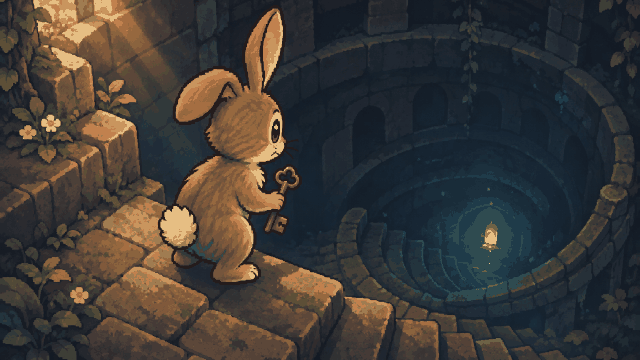
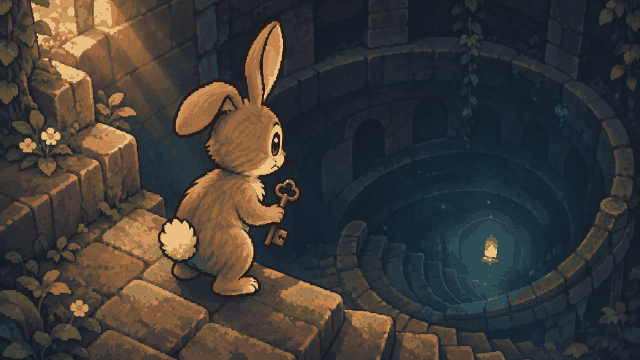
Show the whole rabbit in the opening picture
The art pipeline trimmed every 3:2 backdrop to 16:9 by cutting equally from
top and bottom, which took the ears off the rabbit on the hill in the first
opening picture (at every window size, since it was baked into the file).
Backdrops can now say where to trim; the first picture gets a little more
painted sky above the rabbit and is trimmed from the top, and the third
picture keeps more room above Bramble's ear.

Fixes #1

diff --git a/tools/pixelize.py b/tools/pixelize.py
@@ -106,13 +106,18 @@ def do_anim(folder, manifest):
         sheet.save(os.path.join(d, name + '.png'))
         manifest.setdefault('anim-' + kind, {})[name] = [fw, fh, len(outs)]
 
+# Where to trim a backdrop that is taller than 16:9: 0 = keep the top, 1 = keep the bottom,
+# 0.5 (default) = trim equally. Set one when the centre trim cuts into something that matters.
+# bg-intro-1's source was extended upward (sky) so the rabbit on the hill has headroom.
+BG_FOCUS_Y = {'bg-intro-1': 0.0, 'bg-intro-3': 0.3}
+
 def do_bg(path, manifest):
     name = os.path.splitext(os.path.basename(path))[0]
     im = Image.open(path).convert('RGB')
     W, H = BG_SIZE
     k = max(W / im.width, H / im.height)
     im = im.resize((round(im.width * k), round(im.height * k)), Image.BOX)
-    x = (im.width - W) // 2; y = (im.height - H) // 2
+    x = (im.width - W) // 2; y = round((im.height - H) * BG_FOCUS_Y.get(name, 0.5))
     im = im.crop((x, y, x + W, y + H)).quantize(colors=64, method=Image.MEDIANCUT, dither=Image.NONE).convert('RGB')
     d = os.path.join(OUT, 'bg'); os.makedirs(d, exist_ok=True)
     im.save(os.path.join(d, name + '.png'))

diff --git a/design/ASSETS.md b/design/ASSETS.md
@@ -61,3 +61,11 @@ Epilogue (2026-11-12, design/changes/epilogue.md; its own $20 budget): imagegen2
 | prop sheet "rebuild": prop-flint-doorway (2x2), prop-sprout-patch (2x2 ground), prop-feast-spread (2x2 ground), prop-dandelion-clock (1x1) | art-src/sheets/prop-rebuild.png (+ -split.png: the patch and the cloth touched, so a 120 px gap was inserted before cut_sheet) -> game/assets/sprites/props/ | imagegen2 low 1536x1024, transparent (native alpha) | four props in a row: flint-framed burrow doorway in a grassy bank with a lantern; a staked patch of clover shoots and dandelions; a picnic cloth of clover, carrots and cakes; dandelion seed clocks | 1 | $0.06 |
 
 Sizes added to tools/sizes.py (PROPS). Epilogue spend: $0.41 of its $20. Overall running total: $38.97 ($38.56 + $0.41).
+
+Issue #1 fix (2026-11-15, "Rabbit cut off on intro screen"; its own $20 budget): the 3:2 backdrop sources were trimmed to 16:9 equally top and bottom, which cut the hilltop rabbit's ears off bg-intro-1. tools/pixelize.py now takes a per-backdrop trim focus (BG_FOCUS_Y: bg-intro-1 top, bg-intro-3 0.3 for ear headroom; everything else centred as before). All 29 backdrop crops were checked; only these two came near anything that matters.
+
+| ID | File | Tool | Prompt (short) | Tries | Est. cost |
+|---|---|---|---|---|---|
+| bg-intro-1 sky extension | art-src/bg/bg-intro-1.png (original moved down 96 px; new sky strip from .gamegen/candidates/issue1/extend-1.png, blended in above the ears, deeper on the right; original kept as .gamegen/candidates/issue1/original-bg-intro-1.png) -> game/assets/bg/bg-intro-1.png | imagegen2 high 1536x1024, edit of the shifted canvas | repaint only the top placeholder strip as sky, clouds and meadow, ears complete with sky above, keep everything else | 1 | $0.35 |
+
+Issue #1 spend: $0.35 of its $20. Overall running total: $39.32 ($38.97 + $0.35).

diff --git a/design/STATUS.md b/design/STATUS.md
@@ -19,6 +19,7 @@
 13. `When done, /gamegen --feedback hidden, then /gamegen --publish --no-confirm.` (2026-11-13: after the controller change lands and its regression passes)
 14. `/gamegen --feedback on --publish --no-confirm` (run for the owner on 2026-11-13)
 15. `Let's add a notice to make clear it's not meant for pure mobile. Also consider if gamegen should include this sort of consideration when a game is aimed at desktop or vice-versa.`
+16. `/gamegen --change #1` (2026-11-15) — #1: Rabbit cut off on intro screen (https://github.com/zeveck/warren-peace/issues/1), filed by the person; plus: `What you're calling "Short wide windows" is a full 16x9 high resolution desktop montior, so pretty standard.` and `The image is clipped exactly the same if I run the game full screen.`
 
 ## Settings
 
@@ -45,6 +46,8 @@
 - Plugins: up to date
 
 ## Phases
+
+- [x] Change 9 (issue #1, rabbit cut off on intro screen): cause was the art pipeline trimming 3:2 sources to 16:9 equally top and bottom (baked into the file, so every window size showed it). pixelize.py BG_FOCUS_Y per backdrop; bg-intro-1 source extended upward with a generated sky strip ($0.35) and trimmed from the top; bg-intro-3 trimmed at 0.3 for ear headroom; all 29 backdrop crops reviewed. Checked in game at 1920x898 and 1920x1080 (all three intro pictures, no console errors); c0-surface, c0-warren, c0-attack replay ok. Commit ends 'Fixes #1'; not pushed. Noted for the person: at 1920x898 the game scales 2x (1280x720) with wide borders; a fill-the-window scaling option is a possible follow-up.
 
 - [x] Preflight: all keys pass; Pillow installed.
 - [x] 1 Brief: written (design/BRIEF.md), title Warren Peace.
